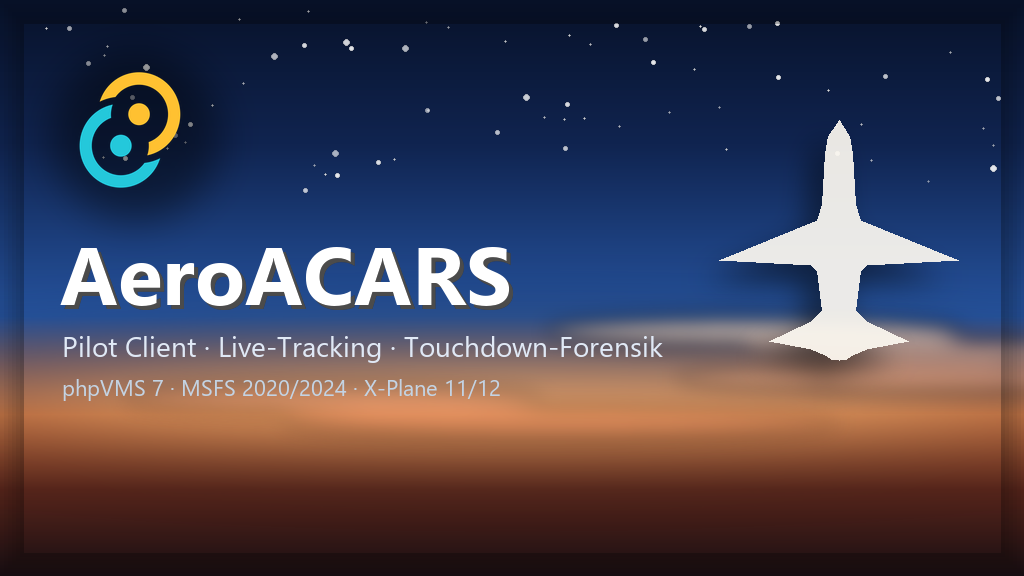
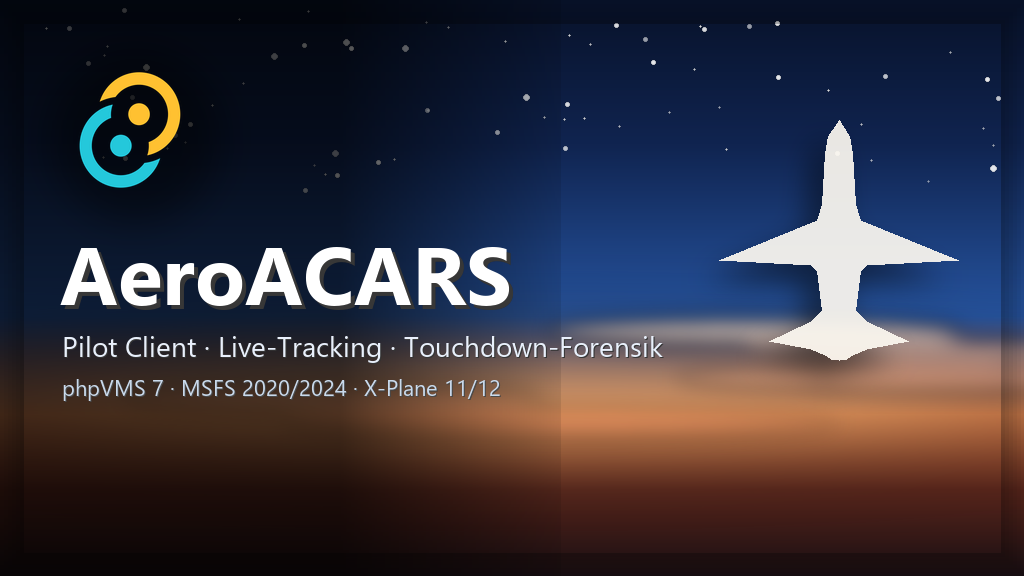
fix(discord-assets): Cover-Schrift lesbar machen via Dark-Scrim-Overlay
Tagline + Tech-Stack-Zeile sind im ersten Cover-Wurf im Sunset-Glow
(orange Wolken-Streaks) untergegangen — weiss-auf-orange-auf-weichem-
Cloud-Edge ist immer ein Kontrast-Problem.

Fix: Dark-Scrim-Panel hinter dem Brand-Block (links, 165-Alpha-Schwarz)
mit horizontaler Fade-Maske (volldeckend bis x=340, weicher Uebergang
bis x=600, dann transparent). So bleibt das Cinema-Sunset-Bild rechts
voll sichtbar, links wird ein lesbarer Text-Bereich hingelegt.

Plus: doppelte Text-Renderings (1px-Offset-Shadow + Hauptschrift) auf
allen 3 Zeilen damit auch beim Discord-Skalieren des Banners nichts
mehr wegglitcht.

diff --git a/docs/discord-assets/generate.py b/docs/discord-assets/generate.py
@@ -461,7 +461,35 @@ def make_cover() -> None:
     canvas.alpha_composite(vignette)
 
     # 7. Brand-Block links: Logo + Wordmark + Tagline
-    # Logo links oben
+    # 7a. Dark-Scrim-Overlay hinter dem Brand-Block damit der Text auf jedem
+    #     Hintergrund-Pixel lesbar bleibt — der Sunset-Glow im mittleren Band
+    #     hat sonst weisse Schrift weggewischt. Wir bauen einen weichen
+    #     Vertical-Gradient von links-volltransparent-schwarz nach
+    #     rechts-transparent + Horizontal-Fade damit der Uebergang ins
+    #     restliche Bild nahtlos wirkt.
+    scrim = Image.new("RGBA", (COVER_W, COVER_H), (0, 0, 0, 0))
+    sdraw = ImageDraw.Draw(scrim)
+    # Hauptpanel: dunkles Rechteck links — wird mit einem horizontalen
+    # Alpha-Fade verblurrt damit kein harter Edge entsteht.
+    sdraw.rectangle([0, 0, 560, COVER_H], fill=(0, 0, 0, 165))
+    # Fade-Maske: links volldeckend, rechts transparent
+    fade = Image.new("L", (COVER_W, COVER_H), 0)
+    fd = ImageDraw.Draw(fade)
+    # Horizontaler Verlauf der Maske (Pixel-fuer-Pixel-Spalte ist OK fuer 1024px)
+    for x in range(COVER_W):
+        if x < 340:
+            a = 255
+        elif x < 600:
+            a = int(255 * (1.0 - (x - 340) / 260))
+        else:
+            a = 0
+        fd.line([(x, 0), (x, COVER_H)], fill=a)
+    # Composite mit der Fade-Maske
+    scrim_faded = Image.new("RGBA", (COVER_W, COVER_H), (0, 0, 0, 0))
+    scrim_faded.paste(scrim, (0, 0), fade)
+    canvas.alpha_composite(scrim_faded)
+
+    # 7b. Logo links oben
     if SOURCE_LOGO.exists():
         logo = Image.open(SOURCE_LOGO).convert("RGBA").resize((140, 140), Image.LANCZOS)
         # Sanfter Glow hinter dem Logo damit es vom Hintergrund abgehoben ist
@@ -472,22 +500,27 @@ def make_cover() -> None:
         canvas.alpha_composite(lg)
         canvas.alpha_composite(logo, (60, 60))
 
-    # Wordmark unter dem Logo
+    # 7c. Wordmark unter dem Logo
     draw = ImageDraw.Draw(canvas)
     font_wordmark = find_font(82)
     font_tagline = find_font(28, bold=False)
-    # Schatten + Hauptschrift
-    draw.text((64, 220), "AeroACARS", font=font_wordmark, fill=(0, 0, 0, 180))
-    draw.text((60, 216), "AeroACARS", font=font_wordmark, fill=(255, 255, 255, 250))
+    # Tiefer-Schatten + Hauptschrift in reinweiss — durch den Scrim jetzt
+    # auch im Sunset-Band gut lesbar.
+    draw.text((64, 220), "AeroACARS", font=font_wordmark, fill=(0, 0, 0, 200))
+    draw.text((60, 216), "AeroACARS", font=font_wordmark, fill=(255, 255, 255, 255))
 
     # Tagline (kurzer Brand-Claim)
+    draw.text((63, 327), "Pilot Client · Live-Tracking · Touchdown-Forensik",
+              font=font_tagline, fill=(0, 0, 0, 200))
     draw.text((62, 326), "Pilot Client · Live-Tracking · Touchdown-Forensik",
-              font=font_tagline, fill=(220, 230, 245, 220))
+              font=font_tagline, fill=(232, 240, 252, 240))
 
     # Untere Status-Linie
     font_meta = find_font(22, bold=False)
+    draw.text((63, 373), "phpVMS 7 · MSFS 2020/2024 · X-Plane 11/12",
+              font=font_meta, fill=(0, 0, 0, 180))
     draw.text((62, 372), "phpVMS 7 · MSFS 2020/2024 · X-Plane 11/12",
-              font=font_meta, fill=(180, 200, 220, 200))
+              font=font_meta, fill=(196, 214, 234, 230))
 
     # 8. Save (kein Rounded-Corner — Discord crop't das Cover selbst zu seiner UI)
     out = OUT / "rich_presence_cover.png"